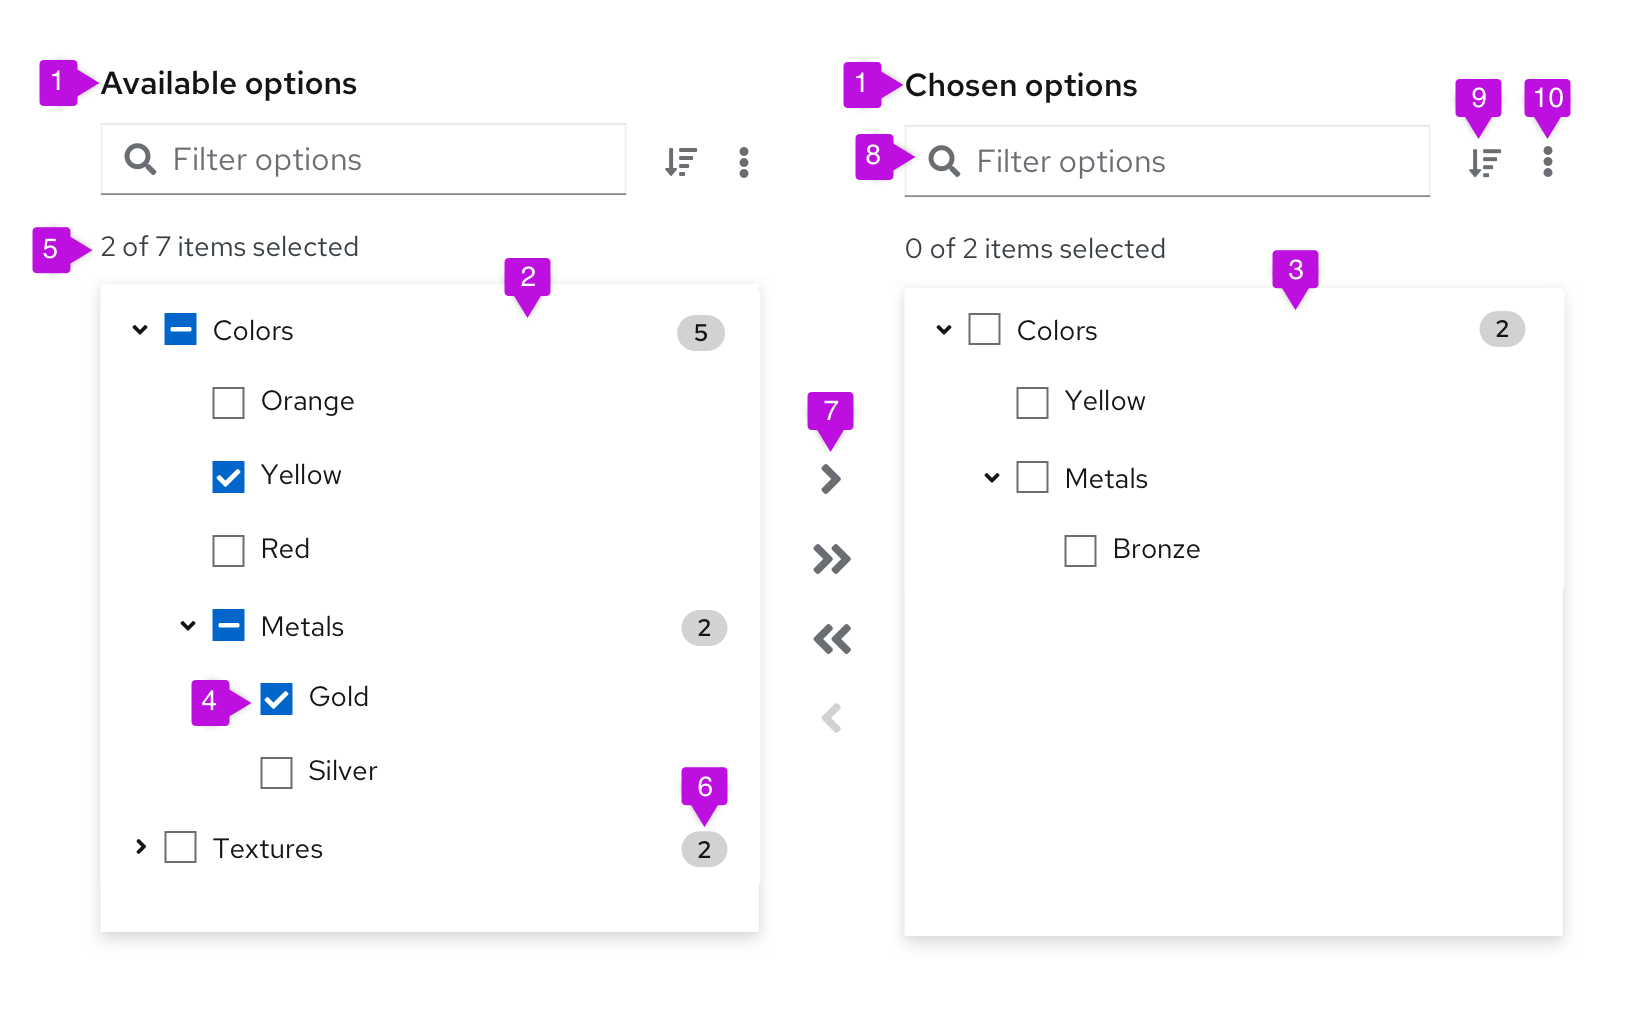
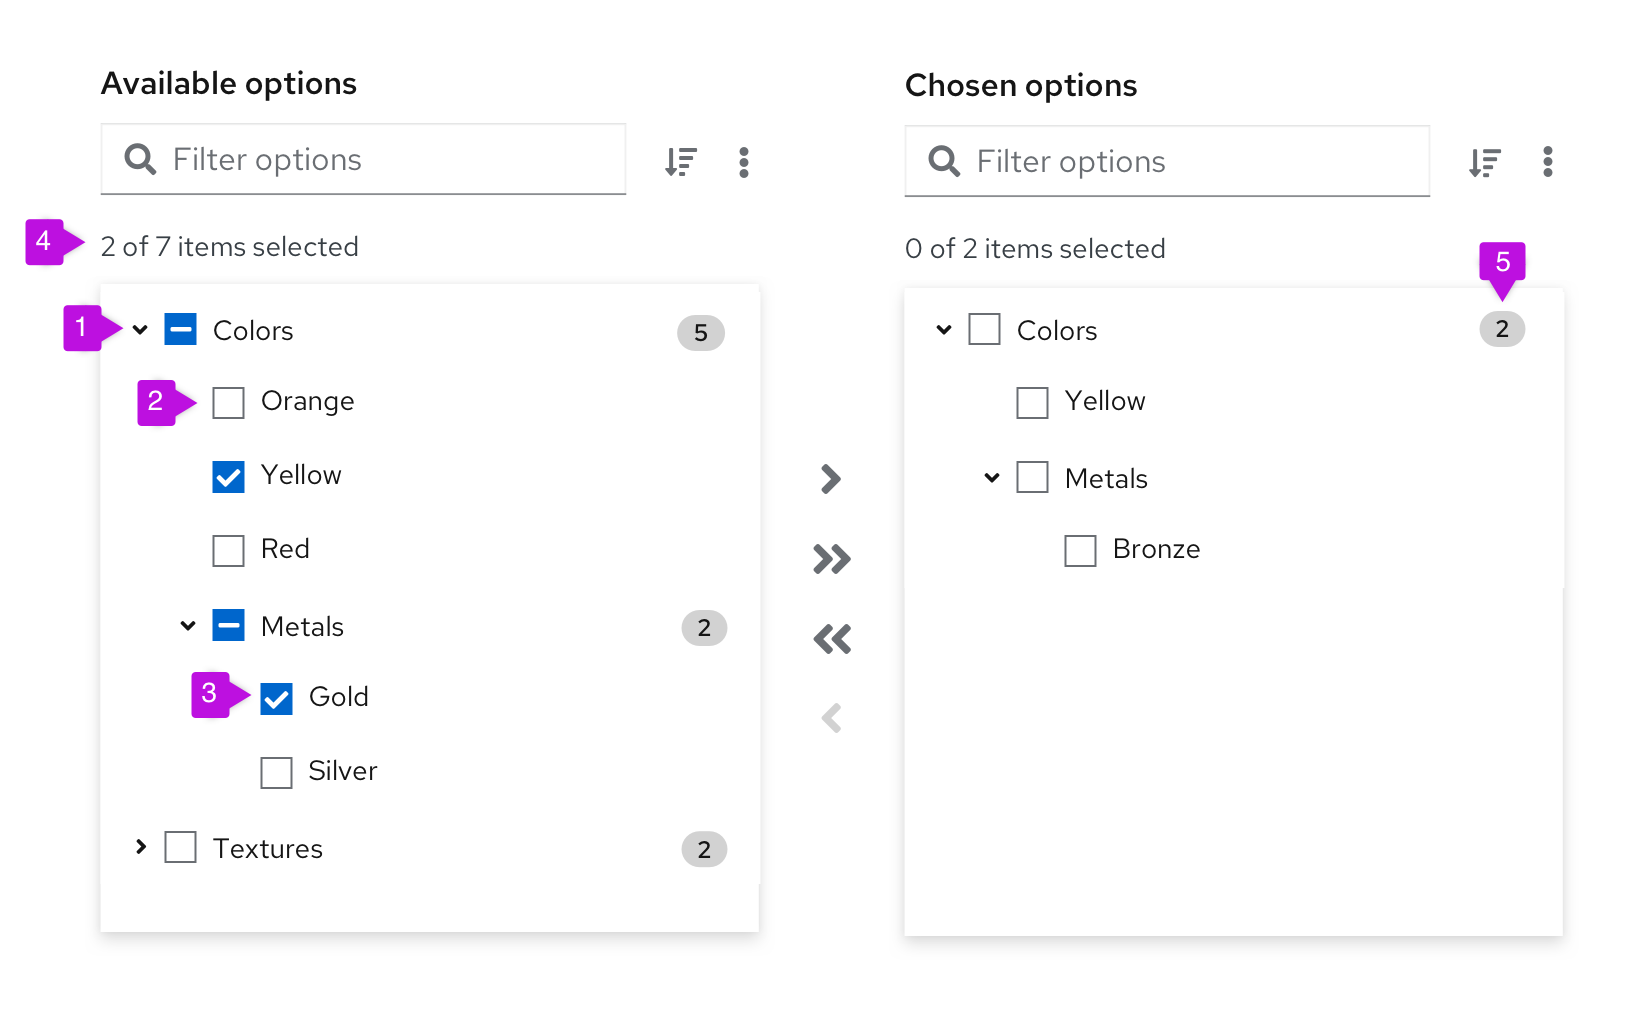
fix expandable dual list

diff --git a/packages/v4/src/content/design-guidelines/components/dual-list-selector/dual-list-selector.md b/packages/v4/src/content/design-guidelines/components/dual-list-selector/dual-list-selector.md
@@ -42,12 +42,11 @@ An expandable dual list contains a multi-leveled list of items for users to choo
 
 <img src="./img/expandable-dual.png" alt="basic dual list" width="880"/>
 
-1. **List labels:** label to distinguish between the list of available items to choose from, and the list of chosen items. These labels can be changed based on your use case. Keep these labels clear and concise. 
-2. **Available items list:** list of items that users can select/choose from. In this example, the list is multi-leveled, which means that items are grouped within folders.
-3. **Chosen items list:**  list of items that users have chosen from the available items list and moved into this list. In this case, when one item is moved to the chosen items, the folder that it was in also gets displayed. In this example, “Yellow” still displays inside a “Colors” folder after it has been moved to the chosen items.
-4. **Selected item:** visual state of item when it has been selected by a user. When a folder has a mix of selected and unselected items, the checkbox should have a mixed state. When all items in a folder are selected, the folder checkbox should have a selected state.
-5. **Number of items:**  indicator of how many items are selected, among the total items available in the list. In expandable lists, <u>only non-folder items are included in the item count.</u>
-6. **Badge (optional):** number of items inside the folder
+1. **Folder:** group of items that can be selected and moved from one list of options to the other. When a folder has a mix of selected and unselected items, the checkbox should have a mixed state. When all items in a folder are selected, the folder checkbox should have a selected state.
+2. **Item:** item within a folder that can be selected and moved.
+3. **Selected item:** visual state of an item when it has been selected by a user. 
+4. **Number of items:** indicator of how many items are selected, among the total items available in the list. <u>In expandable lists, only non-folder items are included in the item count.</u>
+5. **Badge (optional):** number of items inside a folder.
 
 ### Dual list behavior
 Users can select one or more items from the available list and use the arrows to move these items to the chosen list. Users can filter down the items by using the search input field.
